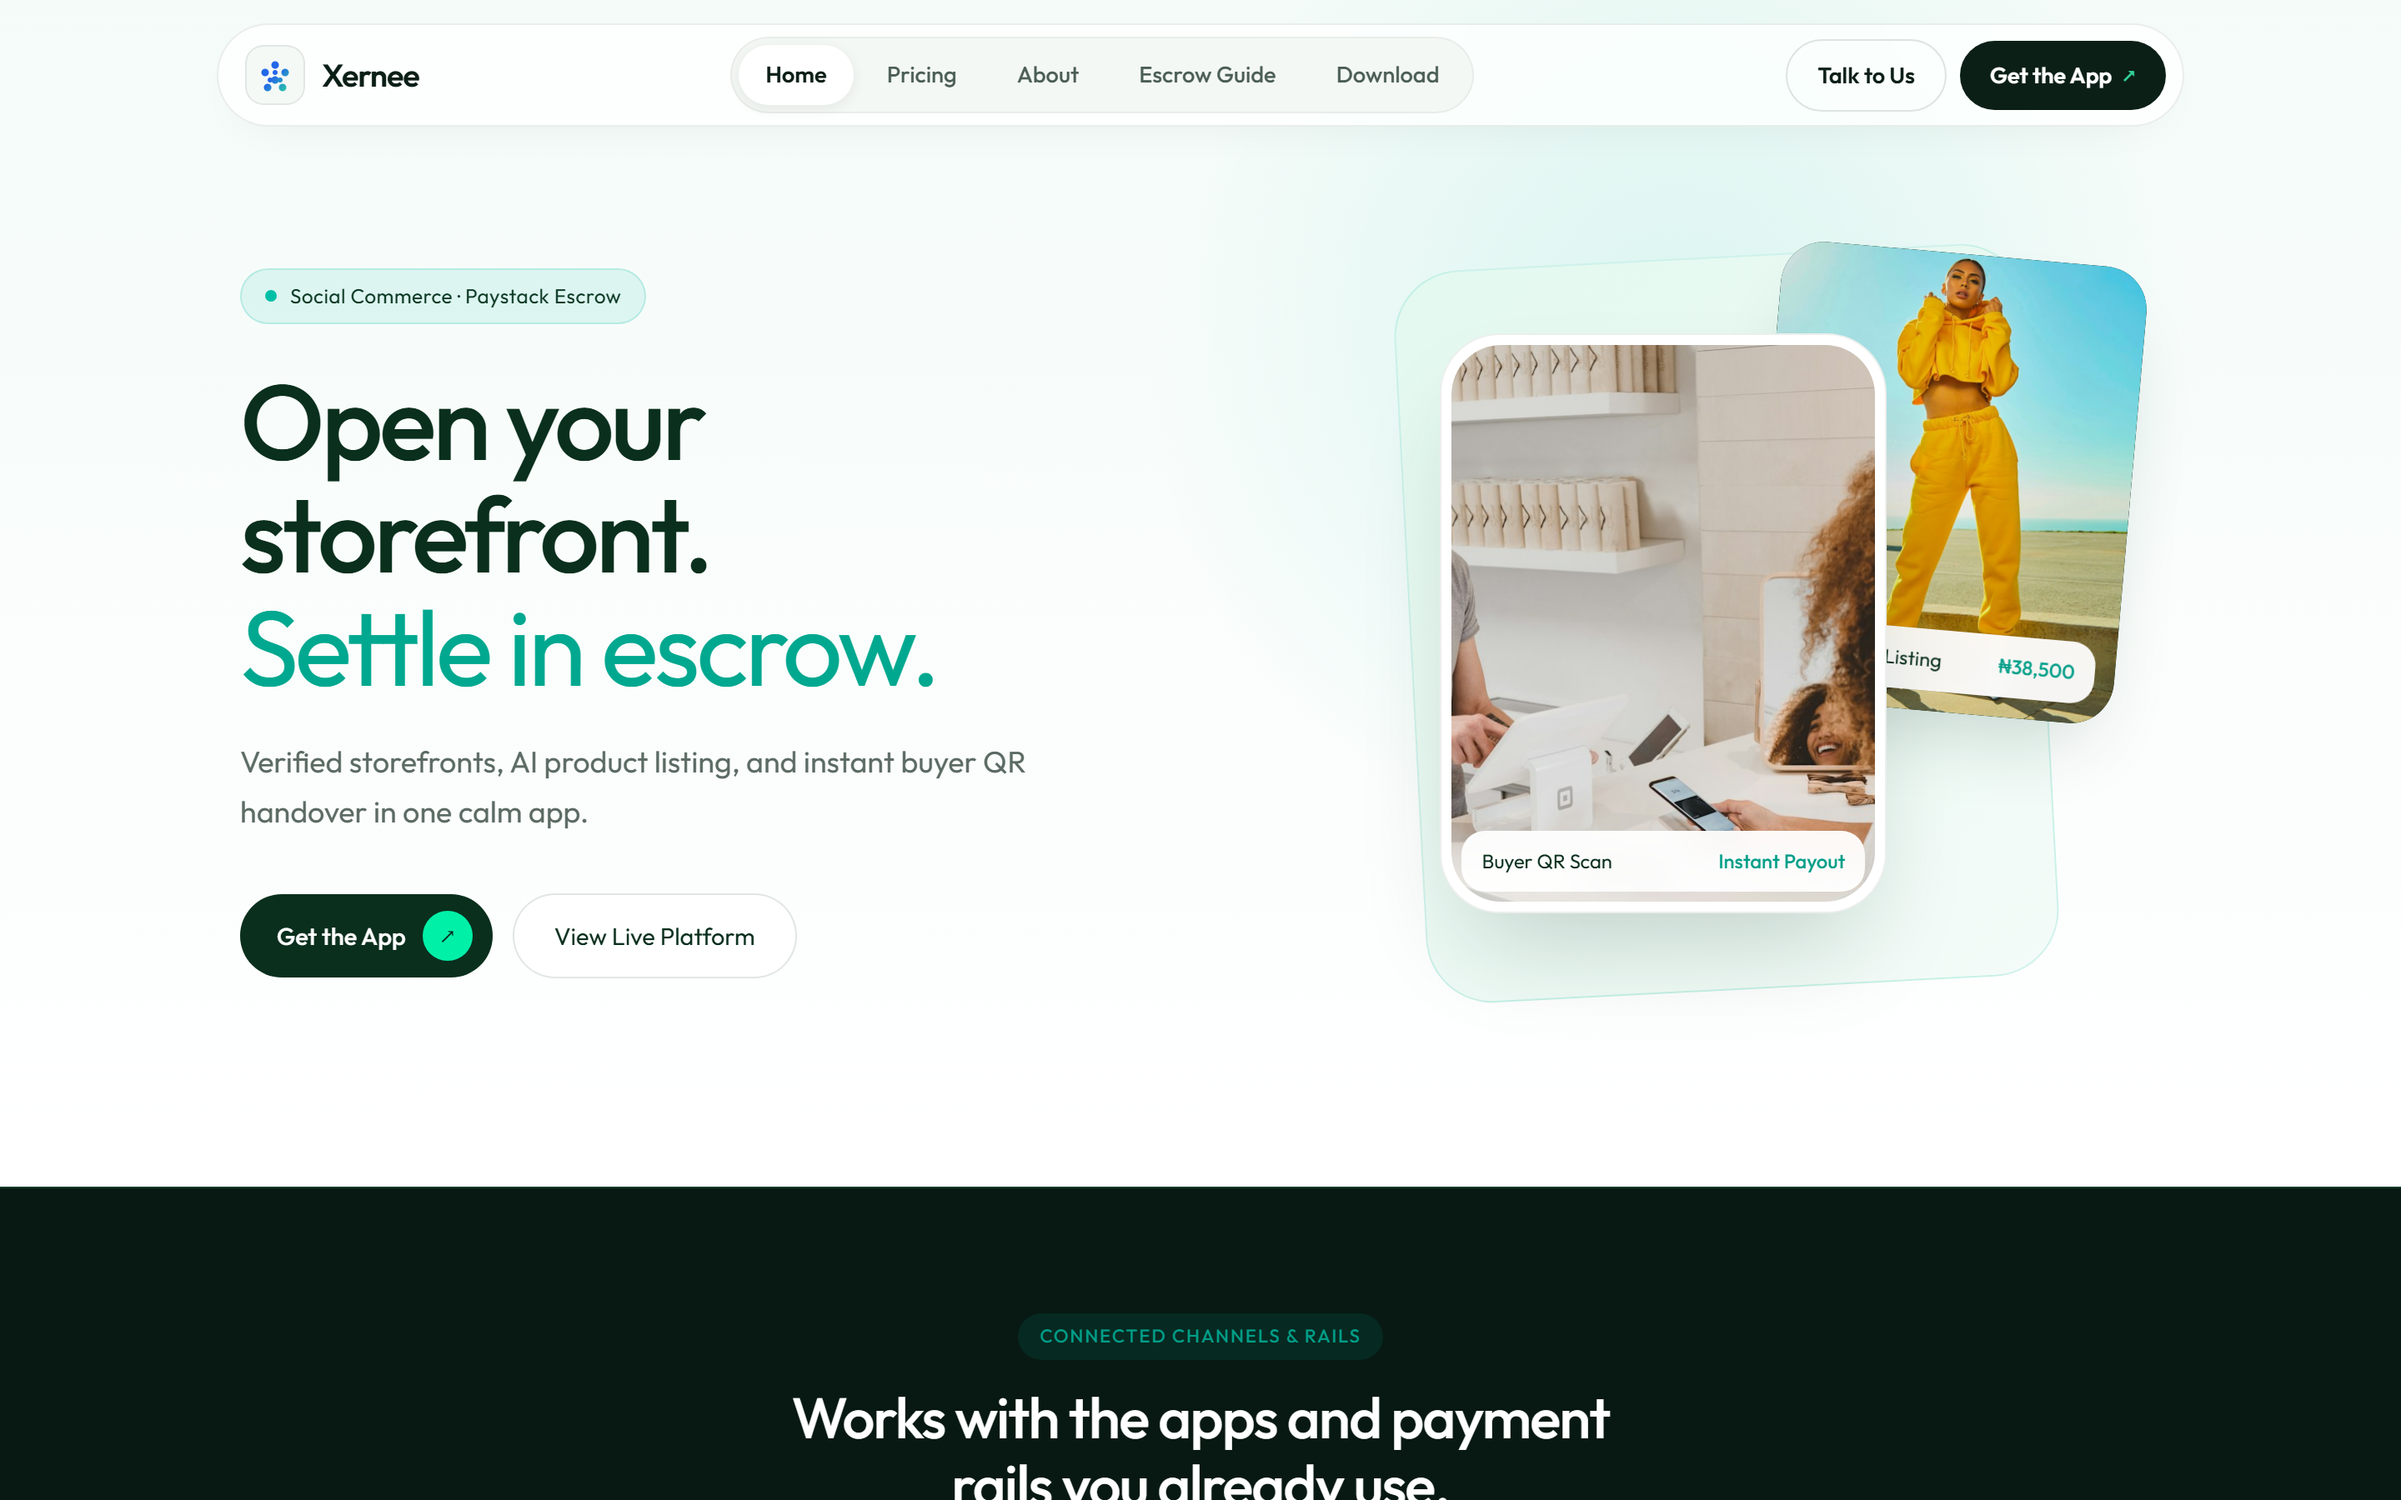
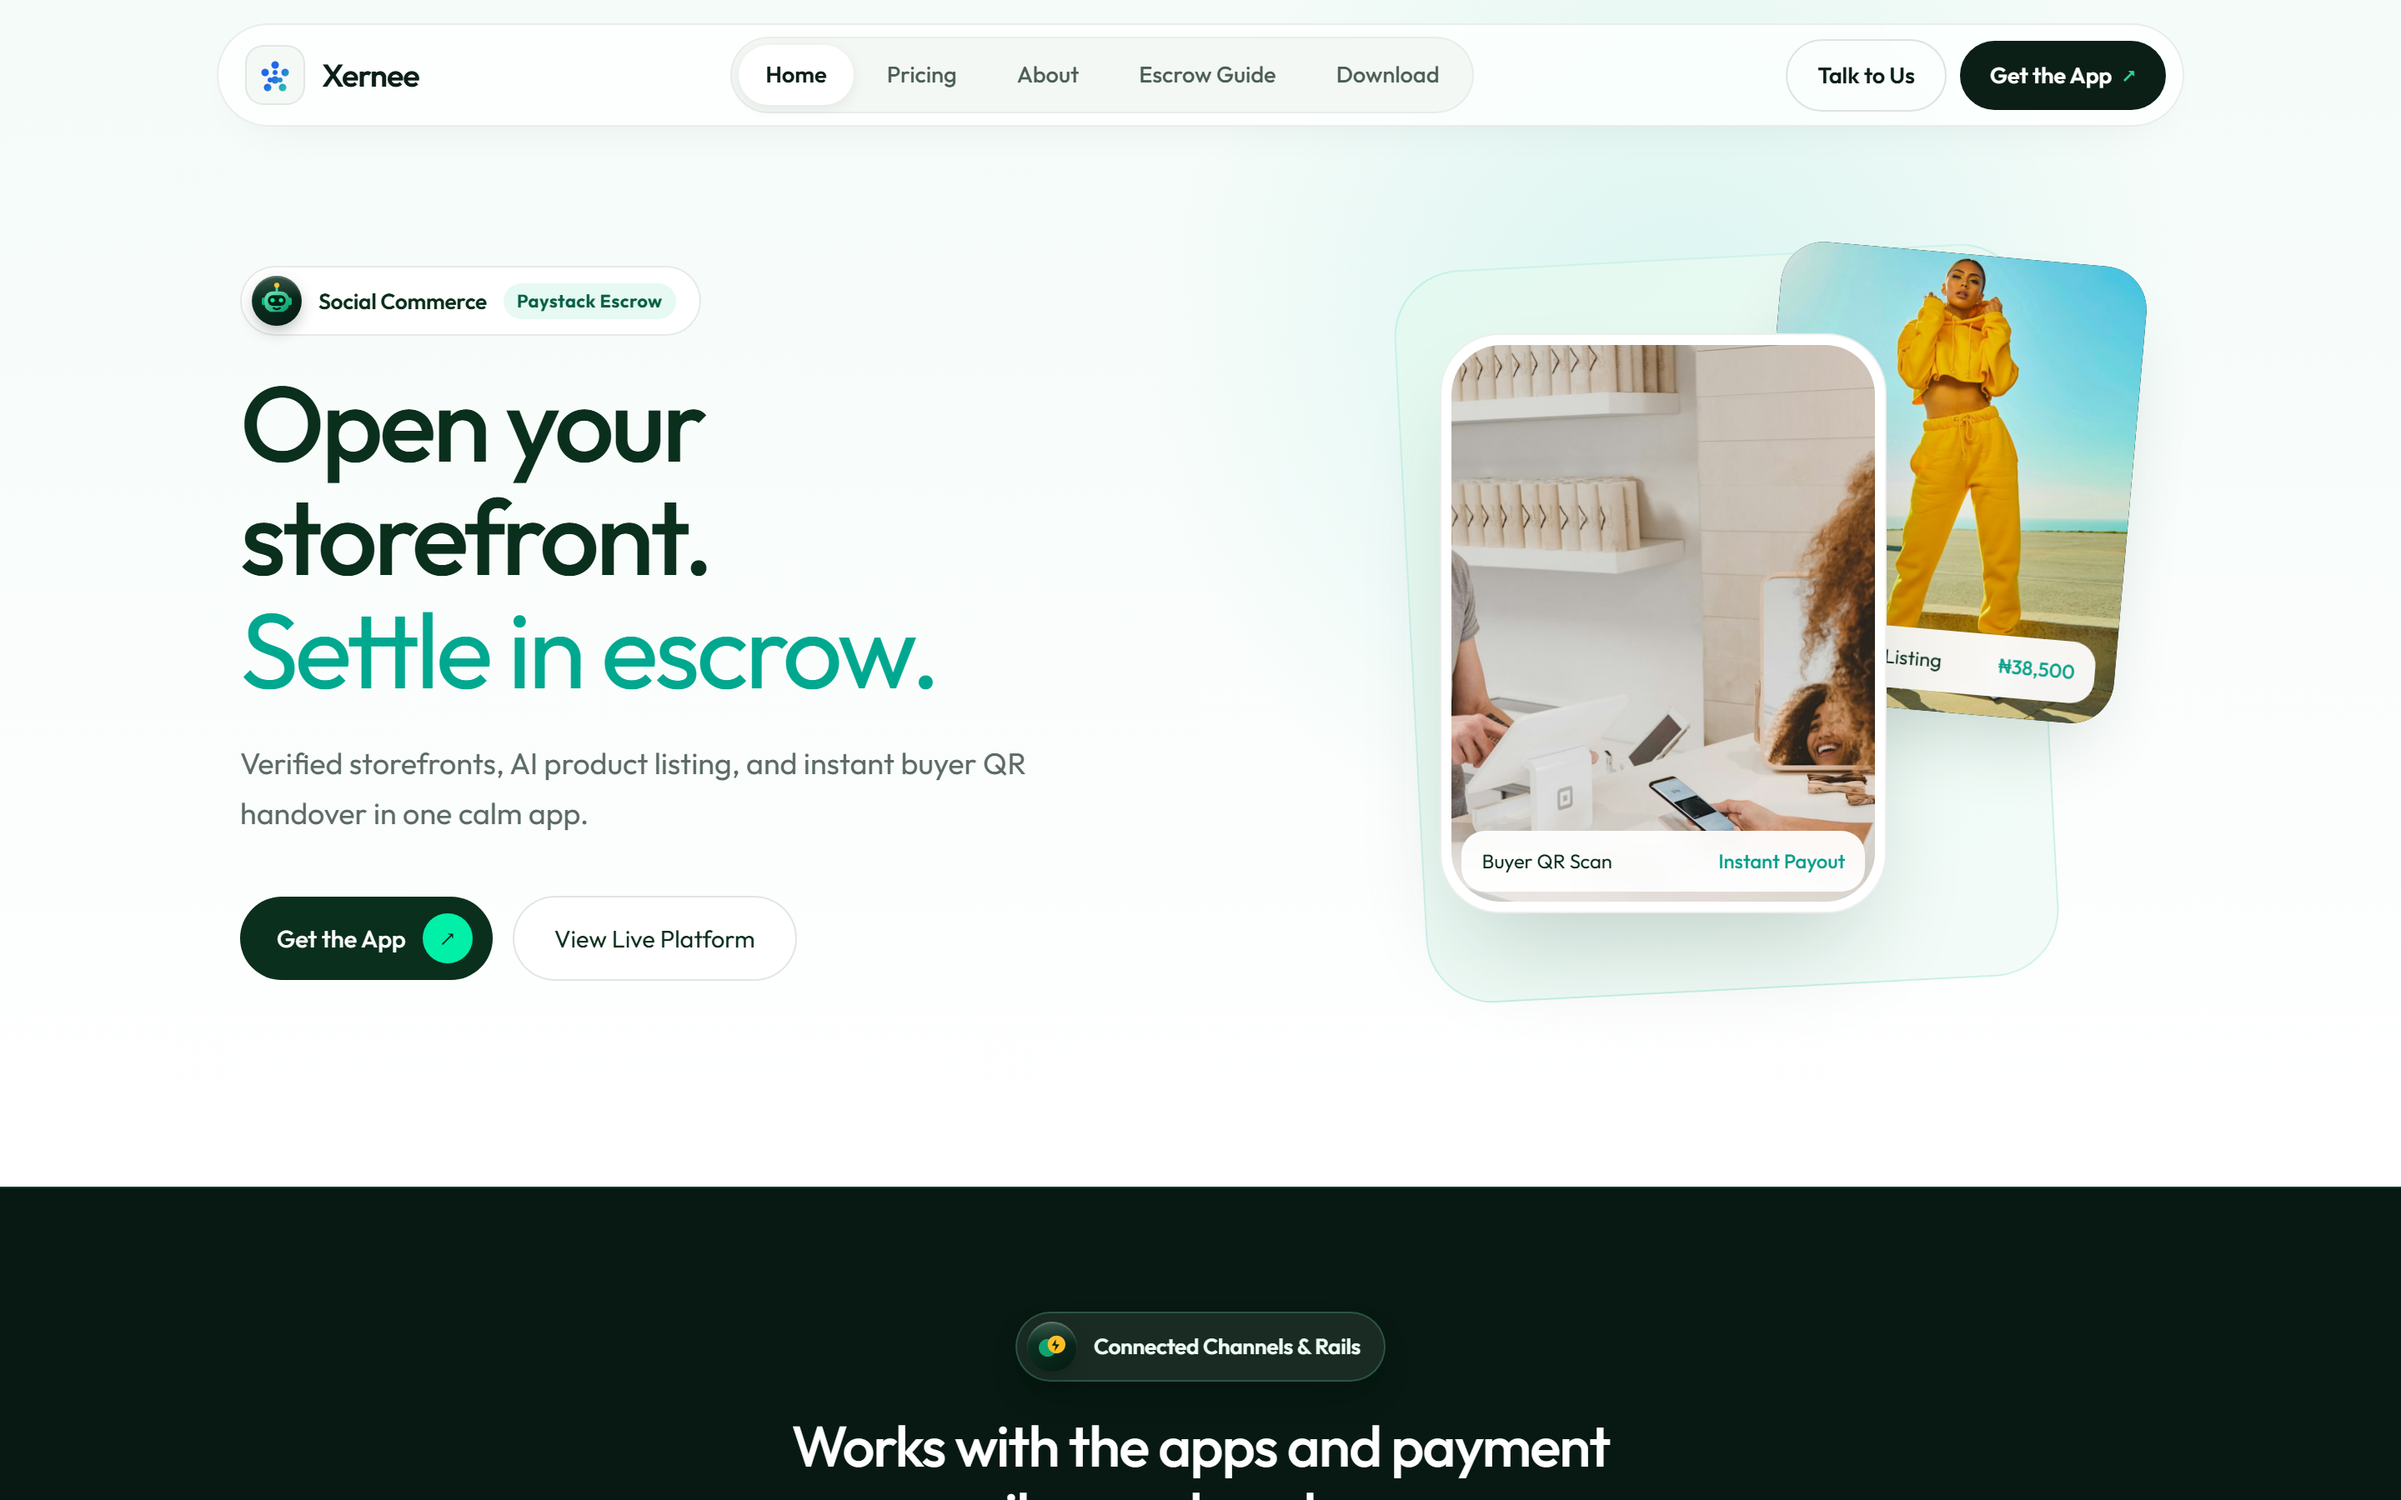
Refactor ProjectDesktopShowcase component to enhance secondary screenshot functionality and improve lightbox controls; update related screenshots

diff --git a/components/ProjectDesktopShowcase.vue b/components/ProjectDesktopShowcase.vue
@@ -240,24 +240,55 @@
                     <span class="truncate">{{ activeProject.liveUrl.replace('https://', '') }}</span>
                   </a>
 
-                  <!-- Right Fullscreen Icon -->
-                  <button
-                    type="button"
-                    class="inline-flex h-7 w-7 items-center justify-center rounded-md text-zinc-400 transition hover:bg-zinc-900 hover:text-white"
-                    title="View Fullscreen Screenshot"
-                    @click="openLightbox(activeIndex)"
-                  >
-                    <Maximize2 class="h-3.5 w-3.5" />
-                  </button>
+                  <!-- Right Controls: Optional Inline Screen Toggle (Home / Download) + Fullscreen Icon -->
+                  <div class="flex items-center gap-1.5">
+                    <div
+                      v-if="activeProject.secondaryScreenshot"
+                      class="inline-flex items-center rounded-md border border-white/10 bg-black p-0.5 font-mono text-[10px]"
+                    >
+                      <button
+                        type="button"
+                        class="rounded px-2 py-0.5 transition"
+                        :class="!inlineSecondaryShot ? 'bg-white font-semibold text-black' : 'text-zinc-400 hover:text-white'"
+                        @click="inlineSecondaryShot = false"
+                      >
+                        Home
+                      </button>
+                      <button
+                        type="button"
+                        class="rounded px-2 py-0.5 transition"
+                        :class="inlineSecondaryShot ? 'bg-white font-semibold text-black' : 'text-zinc-400 hover:text-white'"
+                        @click="inlineSecondaryShot = true"
+                      >
+                        {{ activeProject.id === 'xernee' ? 'Download' : 'View 2' }}
+                      </button>
+                    </div>
+
+                    <button
+                      type="button"
+                      class="inline-flex h-7 w-7 items-center justify-center rounded-md text-zinc-400 transition hover:bg-zinc-900 hover:text-white"
+                      title="View Fullscreen Screenshot"
+                      @click="openLightbox(activeIndex)"
+                    >
+                      <Maximize2 class="h-3.5 w-3.5" />
+                    </button>
+                  </div>
                 </div>
 
                 <!-- 16:10 Desktop Viewport -->
                 <div class="relative aspect-[16/10] w-full overflow-hidden bg-black">
                   <ThreeShaderViewport
-                    v-show="!showArchitecture"
+                    v-show="!showArchitecture && !(inlineSecondaryShot && activeProject.secondaryScreenshot)"
                     :images="projectScreenshots"
                     :active-index="activeIndex"
                     :alt="activeProject.title"
+                  />
+
+                  <img
+                    v-if="!showArchitecture && inlineSecondaryShot && activeProject.secondaryScreenshot"
+                    :src="activeProject.secondaryScreenshot"
+                    :alt="`${activeProject.title} secondary view`"
+                    class="h-full w-full object-cover object-top"
                   />
 
                   <Transition name="page">
@@ -393,13 +424,37 @@
               <span class="truncate">{{ mobileProject.liveUrl.replace('https://', '') }}</span>
             </a>
 
-            <button
-              type="button"
-              class="inline-flex h-6 w-6 items-center justify-center rounded text-zinc-400"
-              @click="openLightbox(mobileIndex)"
-            >
-              <Maximize2 class="h-3.5 w-3.5" />
-            </button>
+            <div class="flex items-center gap-1.5">
+              <div
+                v-if="mobileProject.secondaryScreenshot"
+                class="inline-flex items-center rounded-md border border-white/10 bg-black p-0.5 font-mono text-[9px]"
+              >
+                <button
+                  type="button"
+                  class="rounded px-1.5 py-0.5 transition"
+                  :class="!inlineSecondaryShot ? 'bg-white font-semibold text-black' : 'text-zinc-400'"
+                  @click="inlineSecondaryShot = false"
+                >
+                  Home
+                </button>
+                <button
+                  type="button"
+                  class="rounded px-1.5 py-0.5 transition"
+                  :class="inlineSecondaryShot ? 'bg-white font-semibold text-black' : 'text-zinc-400'"
+                  @click="inlineSecondaryShot = true"
+                >
+                  {{ mobileProject.id === 'xernee' ? 'Download' : 'View 2' }}
+                </button>
+              </div>
+
+              <button
+                type="button"
+                class="inline-flex h-6 w-6 items-center justify-center rounded text-zinc-400"
+                @click="openLightbox(mobileIndex)"
+              >
+                <Maximize2 class="h-3.5 w-3.5" />
+              </button>
+            </div>
           </div>
 
           <div
@@ -407,7 +462,11 @@
             @click="openLightbox(mobileIndex)"
           >
             <img
-              :src="mobileProject.screenshot"
+              :src="
+                inlineSecondaryShot && mobileProject.secondaryScreenshot
+                  ? mobileProject.secondaryScreenshot
+                  : mobileProject.screenshot
+              "
               :alt="mobileProject.title"
               class="h-full w-full object-cover object-top"
             />
@@ -629,7 +688,7 @@
 </template>
 
 <script setup lang="ts">
-import { ref, computed, onMounted, onBeforeUnmount } from 'vue'
+import { ref, computed, watch, onMounted, onBeforeUnmount } from 'vue'
 import { Lock, Maximize2, ArrowUpRight, X, ChevronUp, ChevronDown } from 'lucide-vue-next'
 import { usePortfolioData } from '~/composables/usePortfolioData'
 
@@ -643,6 +702,7 @@ const showArchitecture = ref(false)
 const lightboxOpen = ref(false)
 const lightboxIndex = ref(0)
 const showSecondaryShot = ref(false)
+const inlineSecondaryShot = ref(false)
 
 const projectScreenshots = computed(() => projects.map((p) => p.screenshot))
 
@@ -656,9 +716,13 @@ const activeProject = computed(() => projects[activeIndex.value] || projects[0])
 const mobileProject = computed(() => projects[mobileIndex.value] || projects[0])
 const lightboxProject = computed(() => projects[lightboxIndex.value] || projects[0])
 
+watch([activeIndex, mobileIndex], () => {
+  inlineSecondaryShot.value = false
+})
+
 function openLightbox(idx: number) {
   lightboxIndex.value = Math.min(projects.length - 1, Math.max(0, idx))
-  showSecondaryShot.value = false
+  showSecondaryShot.value = inlineSecondaryShot.value
   lightboxOpen.value = true
 }
 
